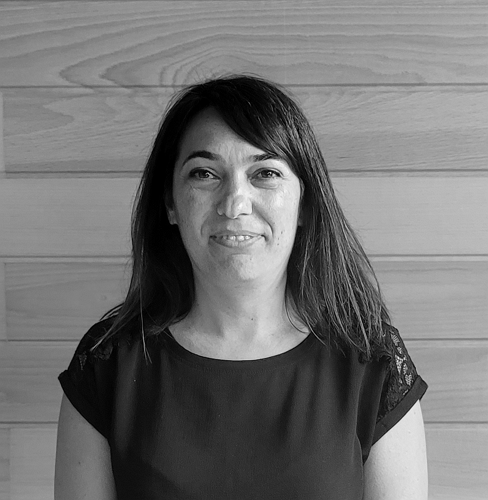
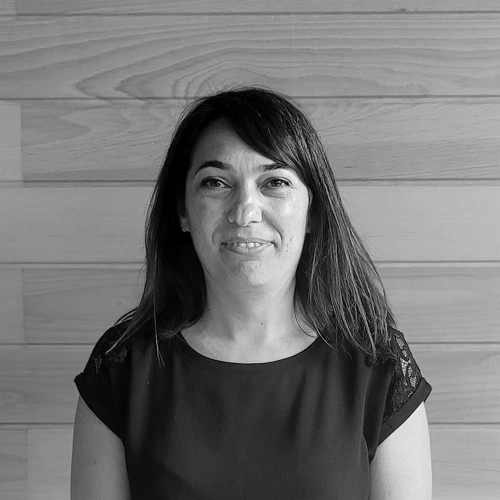
add team page

diff --git a/team.html b/team.html
@@ -24,7 +24,7 @@ permalink: /team/
     <div class="row">
       <div class="col-md-12">
         <div class="block">
-          <img src="{{ site.baseurl }}/img\cloudlab_team.jpg">
+          <img src="{{ site.baseurl }}/img\cloudlab_team.png">
         </div>
       </div>
     </div>
